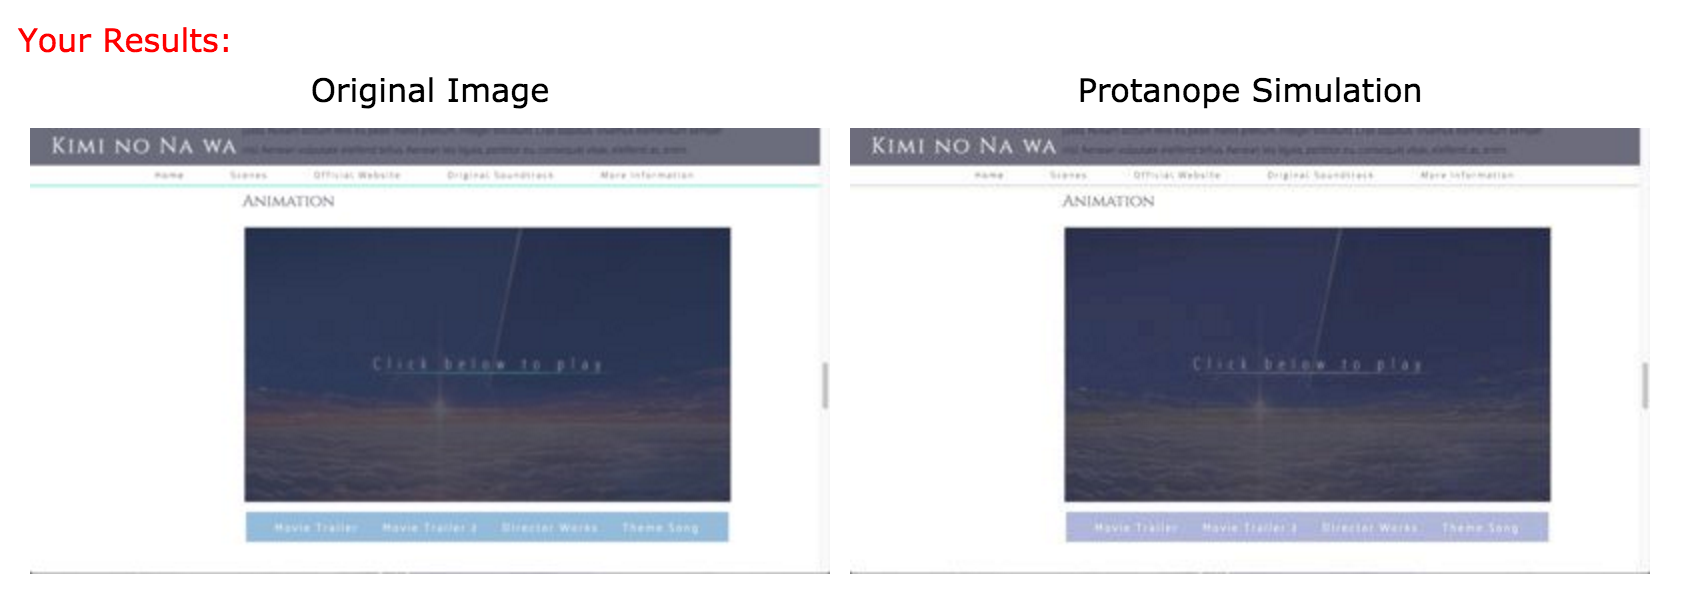
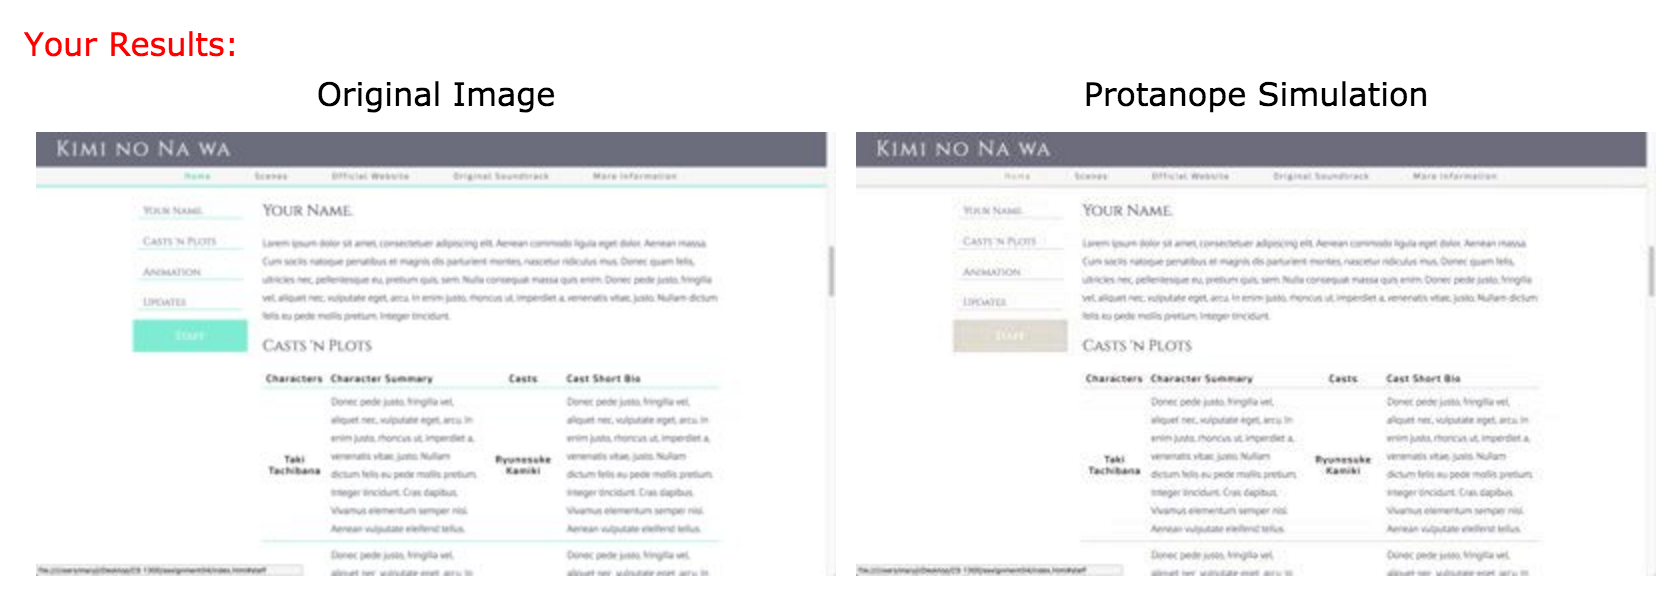
changed vischeck imgs as well as selected page's color in nav bar

diff --git a/assignment04/css/kiminonawa.css b/assignment04/css/kiminonawa.css
@@ -215,7 +215,7 @@ footer {
 }
 
 #home, #scenes {
-    color:#48E5C2;
+    color:#44CCB7;
 }
 
 .nav_span {
